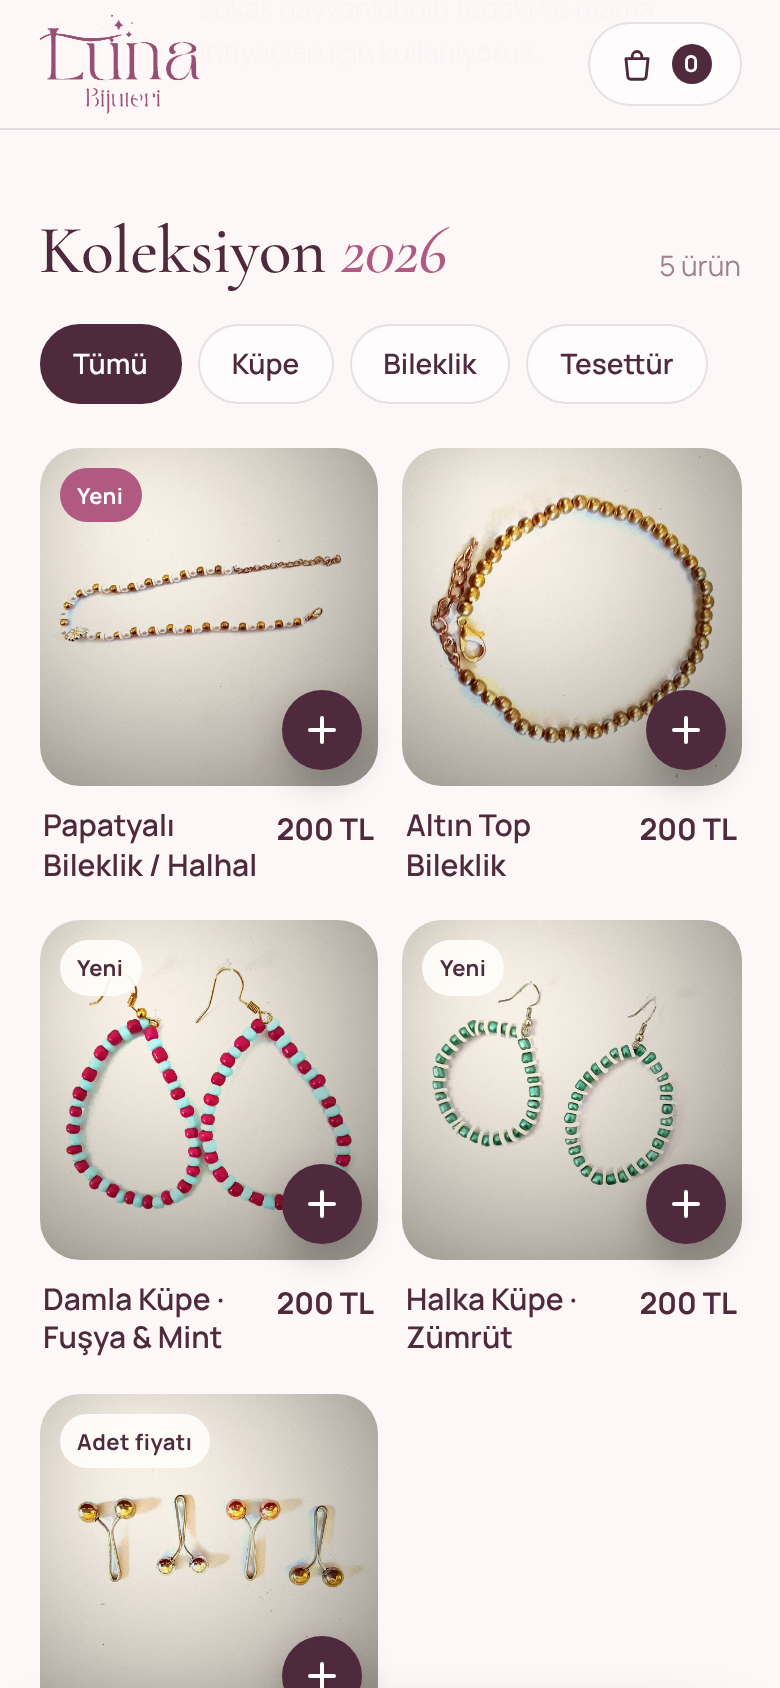
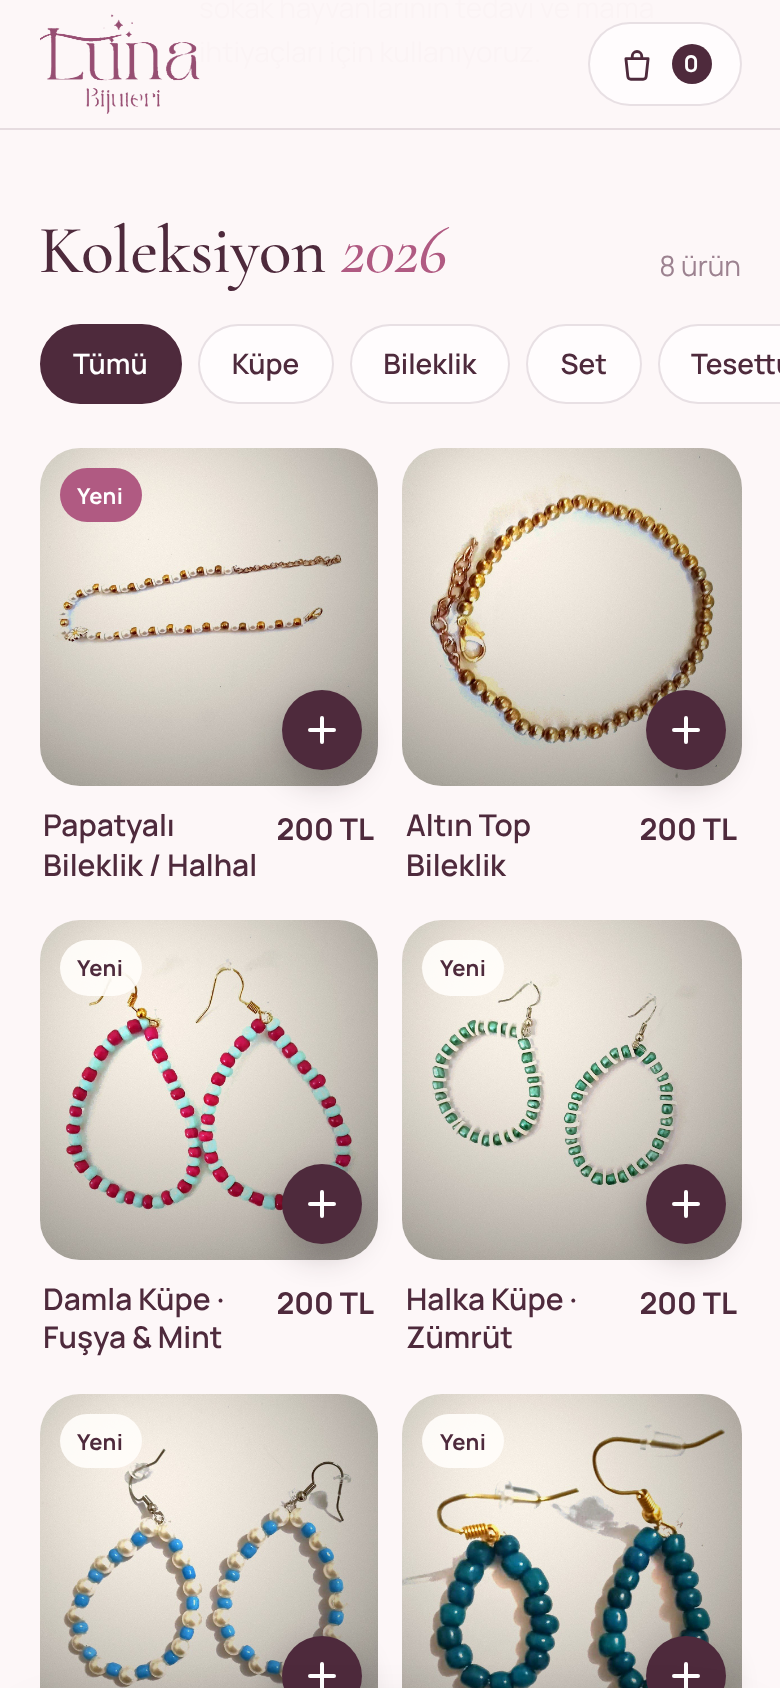
3 new products: blue pearl earrings, petrol earrings, pearl set
Claude-Session: https://claude.ai/code/session_01KTnebS3aNM7e2qS17u6Xhh

diff --git a/index.html b/index.html
@@ -634,7 +634,7 @@ html.soon .has-bar .demo-back{transform:none}
   }
 
   /* ---------- Ürünler ---------- */
-  var CATS = [['all', 'Tümü'], ['kupe', 'Küpe'], ['bileklik', 'Bileklik'], ['tesettur', 'Tesettür']];
+  var CATS = [['all', 'Tümü'], ['kupe', 'Küpe'], ['bileklik', 'Bileklik'], ['set', 'Set'], ['tesettur', 'Tesettür']];
   var TINTS = q.get('t') === 'pembe' ? ['#F7E3EB', '#F3E7EE', '#FAEEF0', '#EFE2EC'] : ['#F4E6DF', '#EFE7DA', '#E7ECE4', '#EEE5EC'];
   var MAT = 'El yapımı.';
   var IMG = 'img/';
@@ -643,6 +643,9 @@ html.soon .has-bar .demo-back{transform:none}
     { id: 'altin-top', n: 'Altın Top Bileklik', c: 'bileklik', p: 200, img: 'altin-top-bileklik.jpg', nm: 1, m: ['gold'], d: 'Altın renk küçük toplardan, uzatma zincirli sade bileklik.' },
     { id: 'damla-kupe', n: 'Damla Küpe · Fuşya & Mint', c: 'kupe', p: 200, img: 'damla-kupe-fusya-mint.jpg', nm: 1, b: 'Yeni', m: ['gold'], d: 'Fuşya ve mint renk boncuklardan damla şeklinde, altın renk kancalı küpe. Fiyat çift içindir.' },
     { id: 'halka-kupe', n: 'Halka Küpe · Zümrüt', c: 'kupe', p: 200, img: 'halka-kupe-zumrut.jpg', nm: 1, b: 'Yeni', m: ['gold'], d: 'Zümrüt yeşili boncuklar ve beyaz ara parçalardan halka küpe, gümüş renk kancalı. Fiyat çift içindir.' },
+    { id: 'inci-mavi', n: 'Damla Küpe · İnci & Mavi', c: 'kupe', p: 200, img: 'inci-mavi-damla-kupe.jpg', nm: 1, b: 'Yeni', m: ['gold'], d: 'İnci ve mavi boncuklardan damla şeklinde, gümüş renk kancalı küpe. Fiyat çift içindir.' },
+    { id: 'petrol', n: 'Damla Küpe · Petrol Yeşili', c: 'kupe', p: 200, img: 'petrol-yesil-damla-kupe.jpg', nm: 1, b: 'Yeni', m: ['gold'], d: 'Petrol yeşili boncuklardan küçük damla küpe, altın renk kancalı. Fiyat çift içindir.' },
+    { id: 'inci-set', n: 'İnci Takı Seti', c: 'set', p: 600, img: 'inci-takim-seti.jpg', nm: 1, b: 'Set', m: ['silver'], d: 'İnci boncuklu kolye ve küpeden oluşan takı seti. Uzatma zincirli, gümüş renk. Parçalar birlikte fiyatlandırılmıştır.' },
     { id: 'igne', n: 'Tesettür İğnesi', c: 'tesettur', p: 30, img: 'tesettur-ignesi-4-renk.jpg', b: 'Adet fiyatı', m: ['antik', 'rose', 'silver', 'gold'], d: 'Eşarp ve bone için tesettür iğnesi. Fiyat tek adet içindir, dilediğiniz adedi ve rengi seçebilirsiniz.' }
   ];
   var LETTERS = 'A B C Ç D E F G H I İ J K L M N O Ö P R S Ş T U Ü V Y Z'.split(' ');
